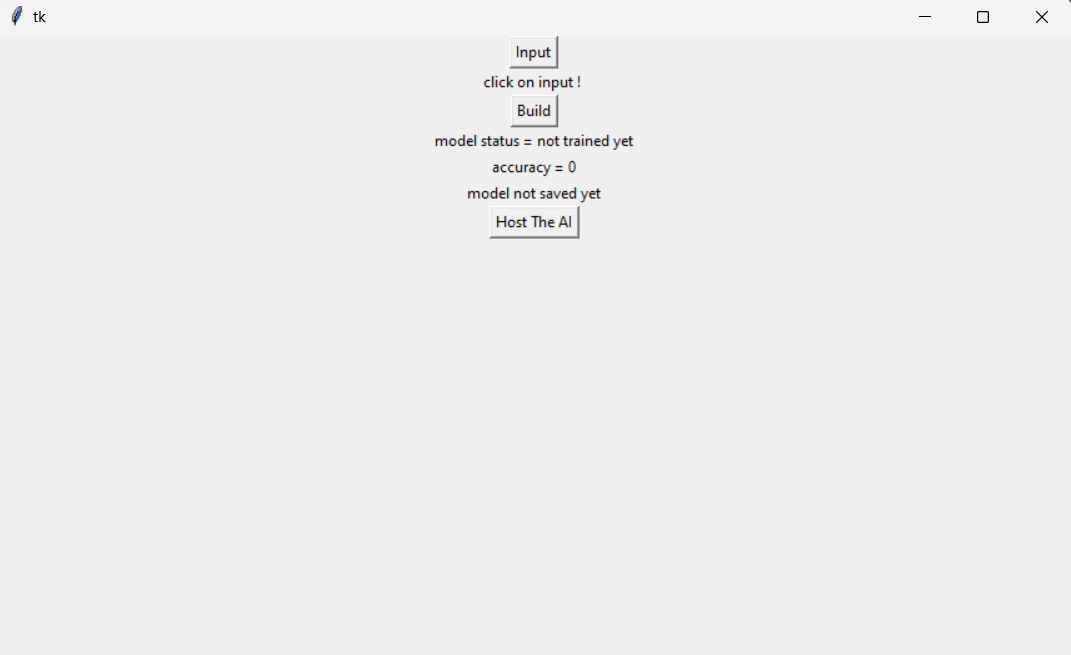
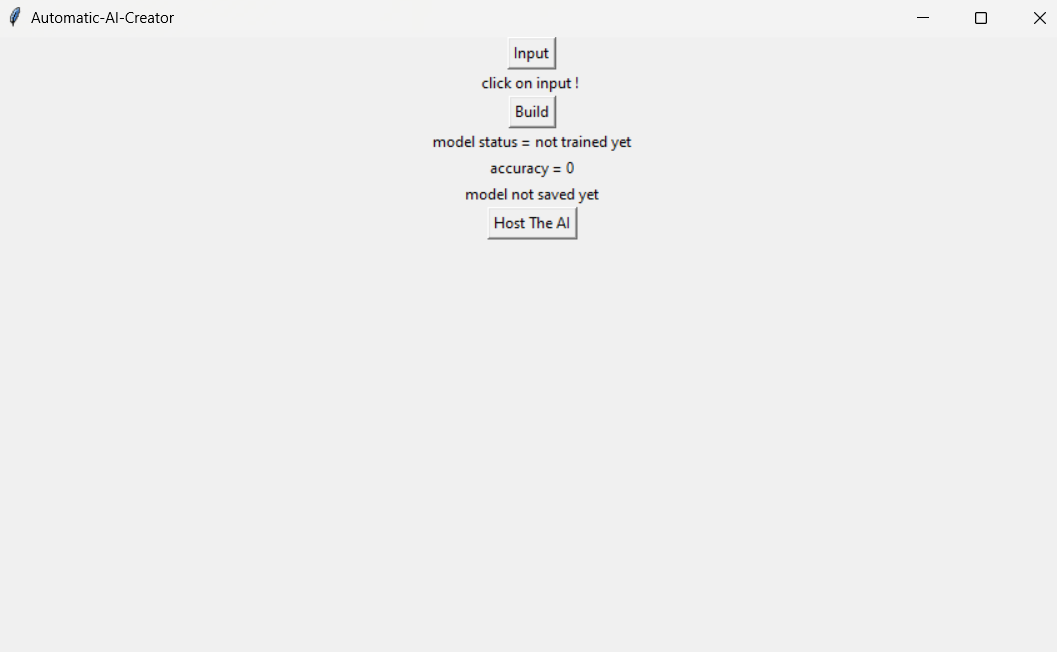
window title

diff --git a/app.py b/app.py
@@ -61,7 +61,7 @@ def train(parent):
 
 window = Tk()
 window.geometry("860x500")
-
+window.title("Automatic-AI-Creator")
 
 parent = ''
 
